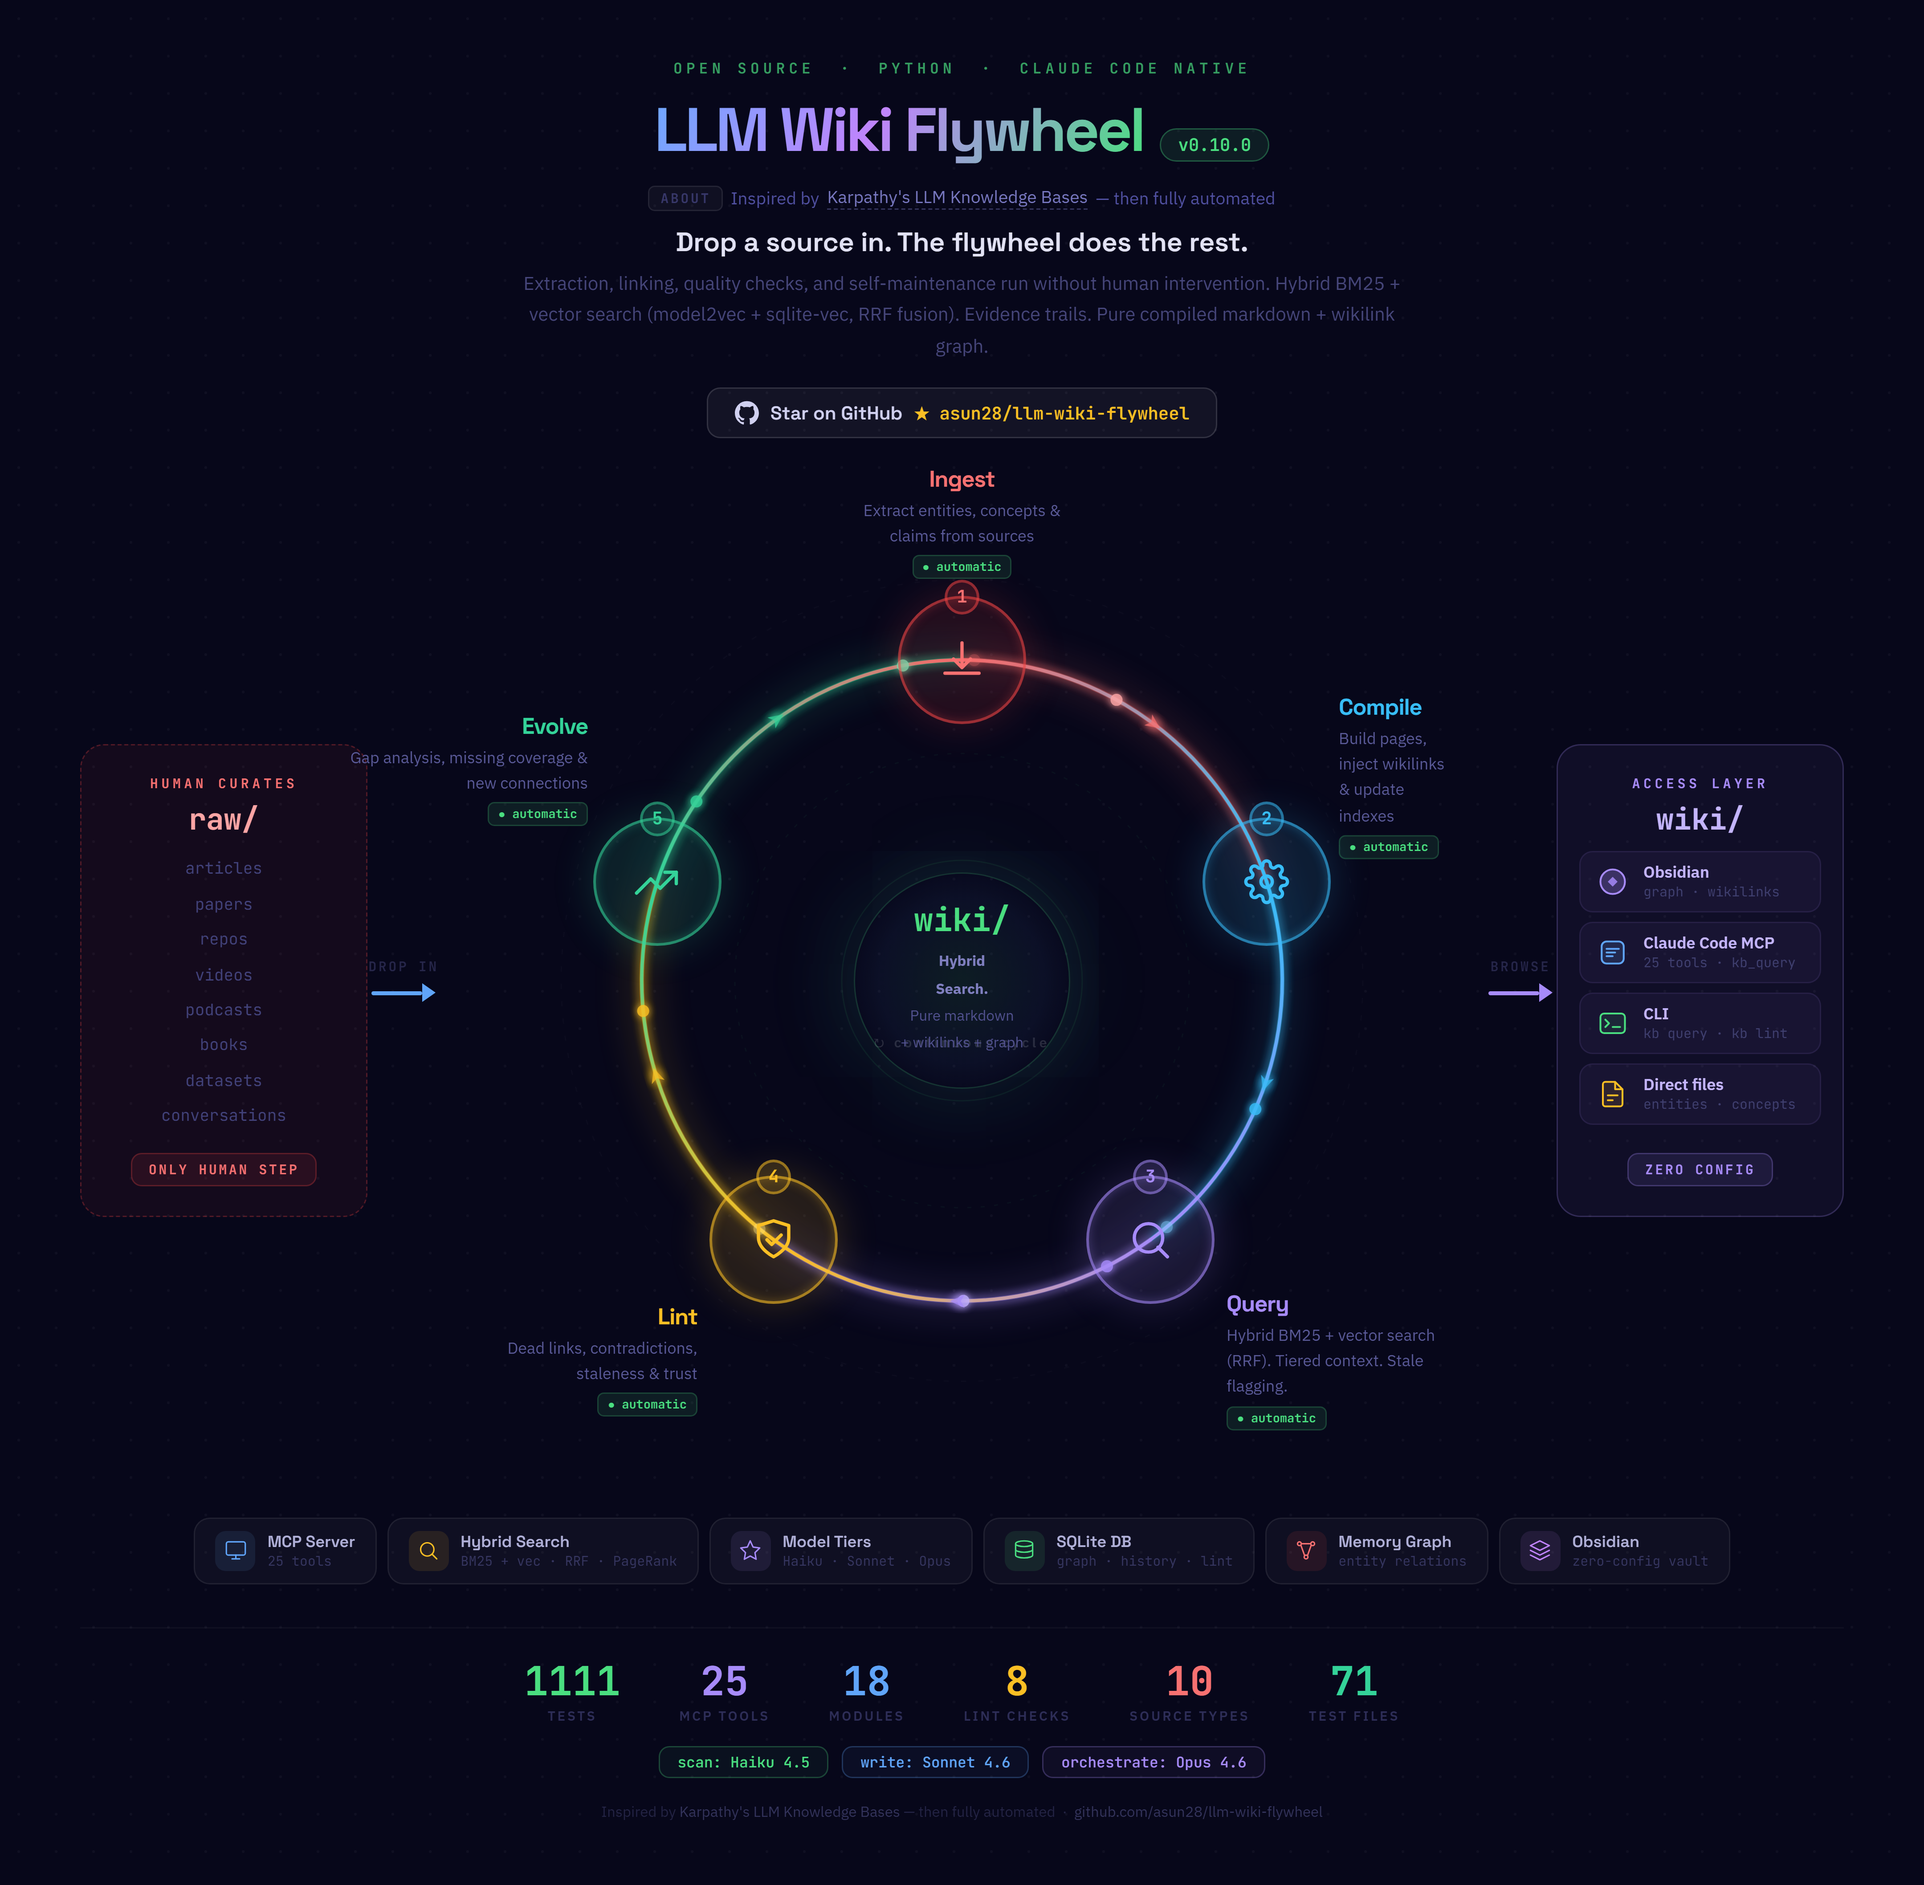
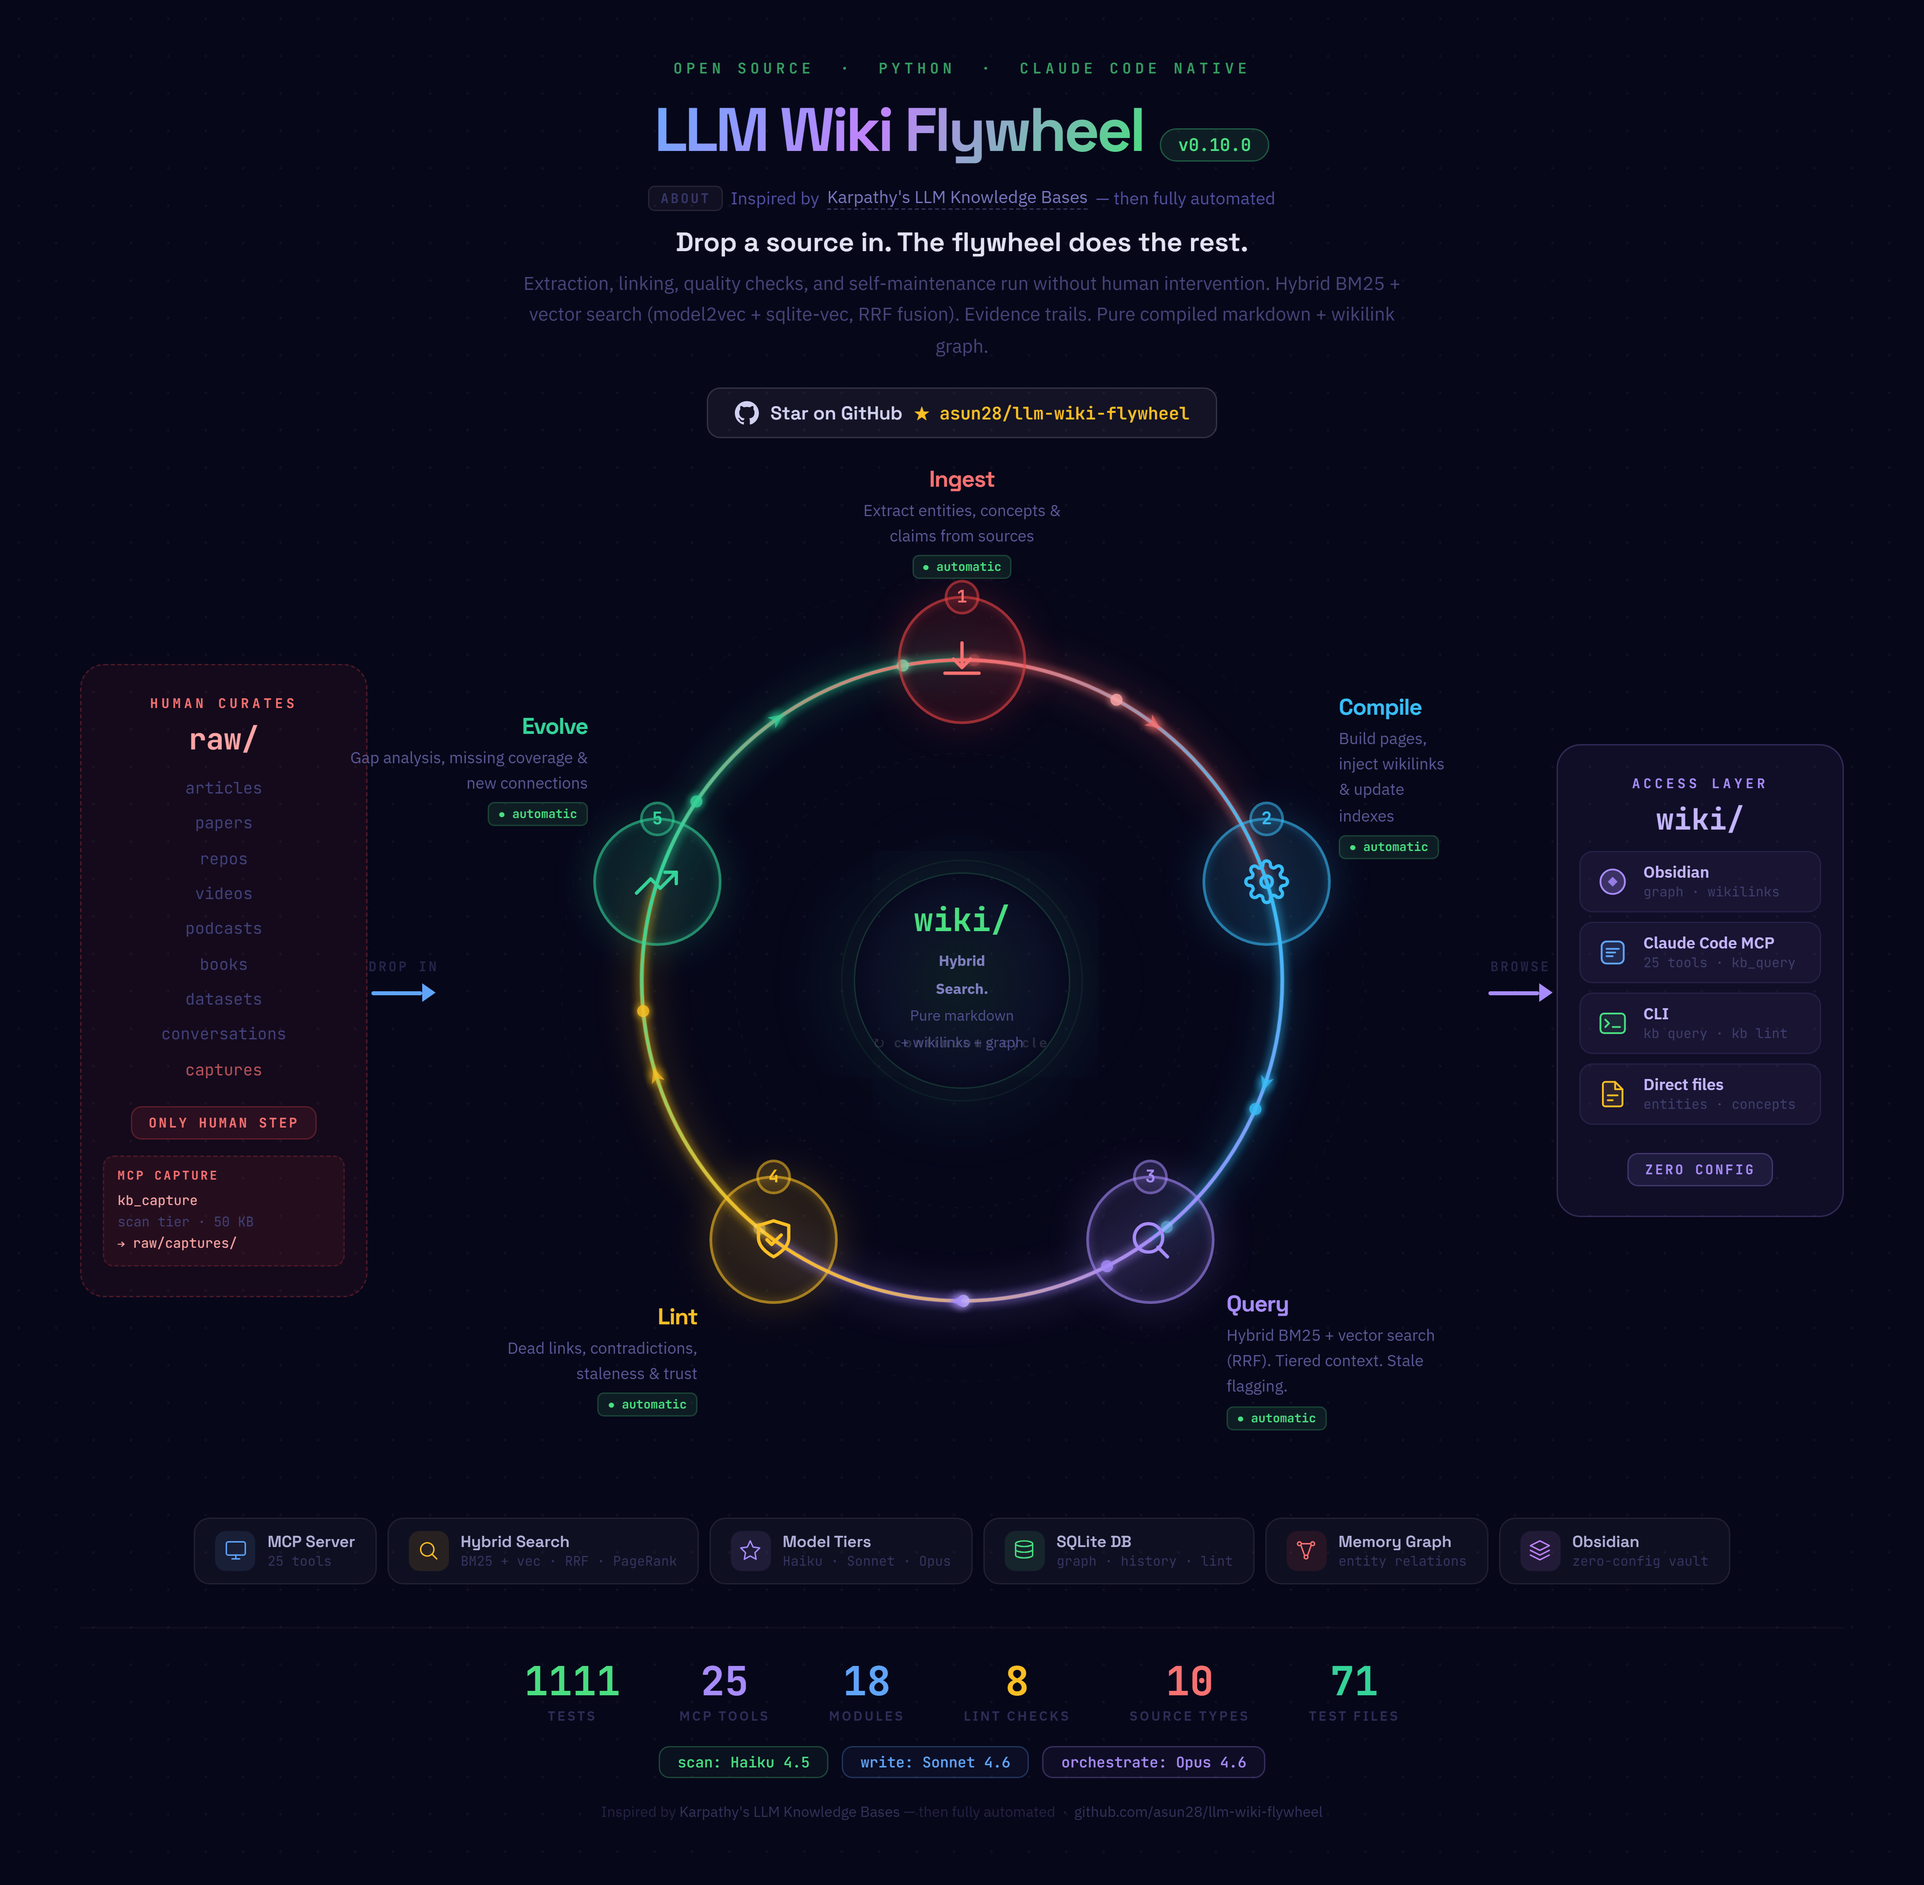
docs(architecture): show kb_capture pre-ingest stage in diagram
HTML edited to add 'kb_capture (scan tier) → raw/captures/' upstream of
the existing kb_ingest pipeline. PNG re-rendered via Playwright per
CLAUDE.md mandatory architecture-sync rule.

Changed region(s): [[0.0312, 0.3742, 0.1875, 0.686]]

diff --git a/docs/architecture/architecture-diagram.html b/docs/architecture/architecture-diagram.html
@@ -525,9 +525,14 @@ body > * { position: relative; z-index: 1; }
     <div class="p-path">raw/</div>
     <div class="p-items">
       articles<br>papers<br>repos<br>videos<br>
-      podcasts<br>books<br>datasets<br>conversations
+      podcasts<br>books<br>datasets<br>conversations<br>
+      <span style="color:#f87171;opacity:0.7">captures</span>
     </div>
     <div class="p-badge">Only Human Step</div>
+    <div style="margin-top:12px;padding:8px 10px;background:rgba(239,68,68,0.07);border:1px dashed rgba(239,68,68,0.22);border-radius:8px;text-align:left;">
+      <div style="font-family:'JetBrains Mono',monospace;font-size:9px;font-weight:700;color:#f87171;letter-spacing:1.5px;text-transform:uppercase;margin-bottom:5px;">MCP capture</div>
+      <div style="font-family:'JetBrains Mono',monospace;font-size:10px;color:#fca5a5;line-height:1.6;">kb_capture<br><span style="color:#42427a">scan tier · 50 KB</span><br>→ raw/captures/</div>
+    </div>
   </div>
 
   <!-- → -->
